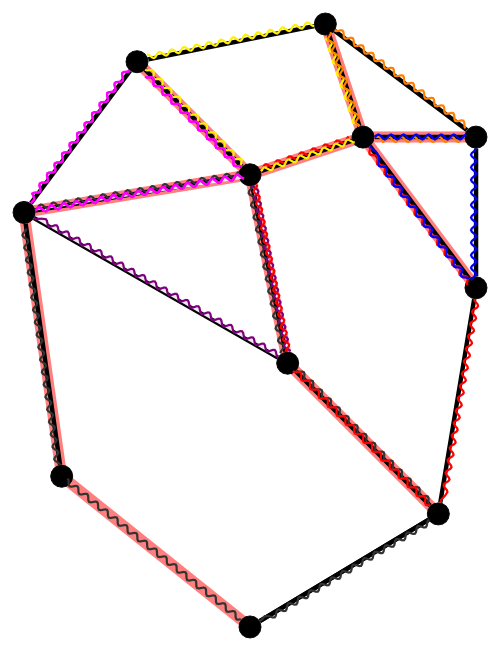
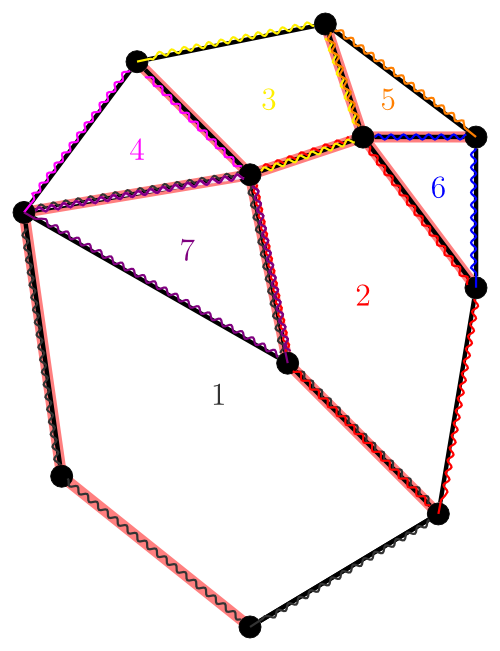
added numbers (thanks to Alain Matthes on tex.stackexchange.com)

diff --git a/tikz/graph-circles/graph-circles.tex b/tikz/graph-circles/graph-circles.tex
@@ -7,8 +7,10 @@
 \definecolor{purple}{HTML}{800080}
 
 \usepackage{tikz}
-\usetikzlibrary{arrows,positioning, calc,lindenmayersystems,decorations.pathmorphing} 
-\tikzstyle{vertex}=[draw,fill=black,circle,minimum size=10pt,inner sep=0pt]
+\usetikzlibrary{arrows,positioning, calc,lindenmayersystems,decorations.pathmorphing,intersections} 
+\tikzstyle{vertex}=[draw,
+fill=black,
+circle,minimum size=10pt,inner sep=0pt]
 \tikzstyle{selected edge} = [draw,line width=5pt,-,red!50]
 \tikzstyle{markedCircle}=[line width=1pt,rotate=90,decorate,decoration={snake, segment length=2mm, amplitude=0.4mm}]
 
@@ -30,6 +32,14 @@
   \node (j)[vertex] at (1.5,8.5) {j};
   \node (k)[vertex] at (4,9) {k};
 
+  \node[text=black!80]  (o1) at (barycentric cs:a=1,b=1,c=1,d=1,f=1,g=1) {\Large 1}; 
+  \node[text=red]       (o2) at (barycentric cs:b=1,d=1,e=1,g=1,h=1) {\Large 2}; 
+  \node[text=yellow]    (o3) at (barycentric cs:g=1,h=1,j=1,k=1) {\Large 3}; 
+  \node[text=pink]      (o4) at (barycentric cs:f=1,g=1,j=1) {\Large 4}; 
+  \node[text=orange]    (o5) at (barycentric cs:h=1,i=1,k=1) {\Large 5}; 
+  \node[text=blue]      (o6) at (barycentric cs:h=1,i=1,e=1) {\Large 6}; 
+  \node[text=purple]    (o7) at (barycentric cs:f=1,d=1,g=1) {\Large 7}; 
+
   \foreach \from/\to in {a/b,a/b,b/d,b/e,c/f,d/f,d/g,f/g,g/h,h/e,h/i,e/i,f/j,g/j,j/k,k/h,k/i}
     \draw[line width=2pt] (\from) -- (\to);
 
@@ -46,14 +56,14 @@
     \draw (h.center) edge[selected edge] (e.center);
   \end{pgfonlayer}
 
-  \draw[color=black!80, markedCircle] (a) -- (c) -- (f) -- (g) -- (d) -- (b) -- (a);
-  \draw[color=purple,   markedCircle, fill=purple!10] (f) -- (g) -- (d) -- (f);
-  \draw[color=red,      markedCircle] (b) -- (d) -- (g) -- (h) -- (e) -- (b);
-  \draw[color=yellow,   markedCircle] (g) -- (h) -- (k) -- (j) -- (g);
-  \draw[color=pink,     markedCircle] (f) -- (g) -- (j) -- (f);
-  \draw[color=pink,     markedCircle] (f) -- (g) -- (j) -- (f);
-  \draw[color=orange,   markedCircle] (h) -- (k) -- (i) -- (h);
-  \draw[color=blue,     markedCircle] (h) -- (i) -- (e) -- (h);
+  \draw[color=black!80, markedCircle] (a) -- (c) -- (f) -- (g) -- (d) -- (b) -- (a) -- cycle;
+  \draw[color=purple,   markedCircle, fill=purple!10] (f) -- (g) -- (d) -- cycle;
+  \draw[color=red,      markedCircle] (b) -- (d) -- (g) -- (h) -- (e) -- (b) -- cycle;
+  \draw[color=yellow,   markedCircle] (g) -- (h) -- (k) -- (j) -- cycle;
+  \draw[color=pink,     markedCircle] (f) -- (g) -- (j) -- (f) -- cycle;
+  \draw[color=purple,     markedCircle] (f) -- (g) -- (d) -- (f) -- cycle;
+  \draw[color=orange,   markedCircle] (h) -- (k) -- (i) -- cycle;
+  \draw[color=blue,     markedCircle] (h) -- (i) -- (e) -- cycle;
 \end{tikzpicture}
 \end{preview}
 \end{document}
